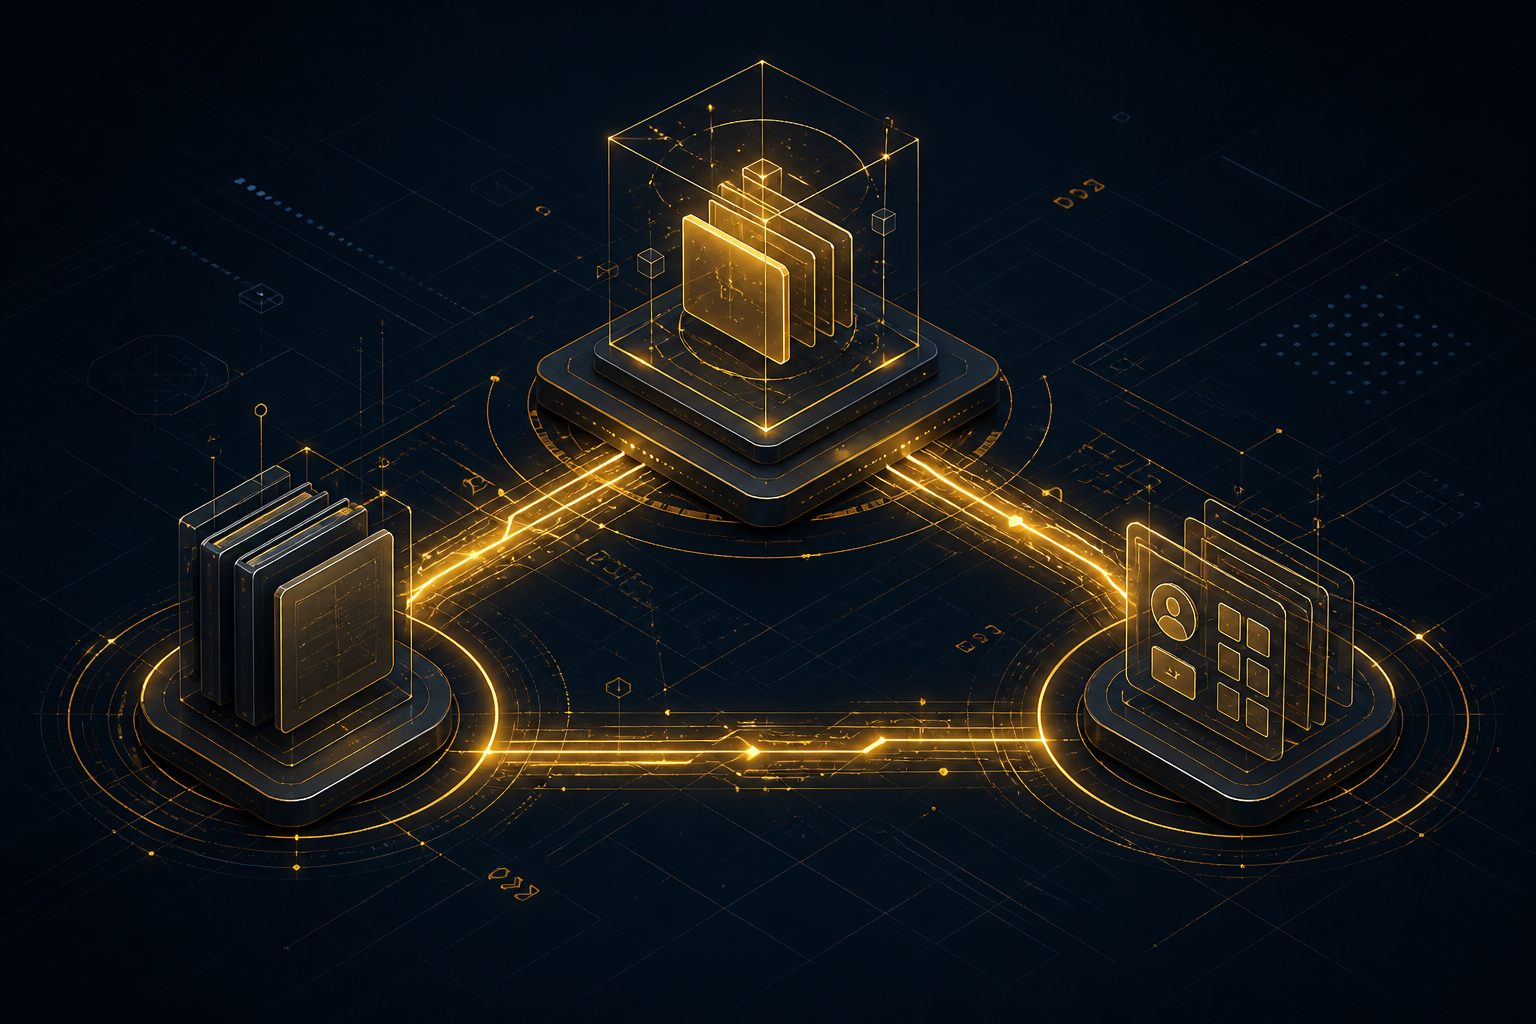
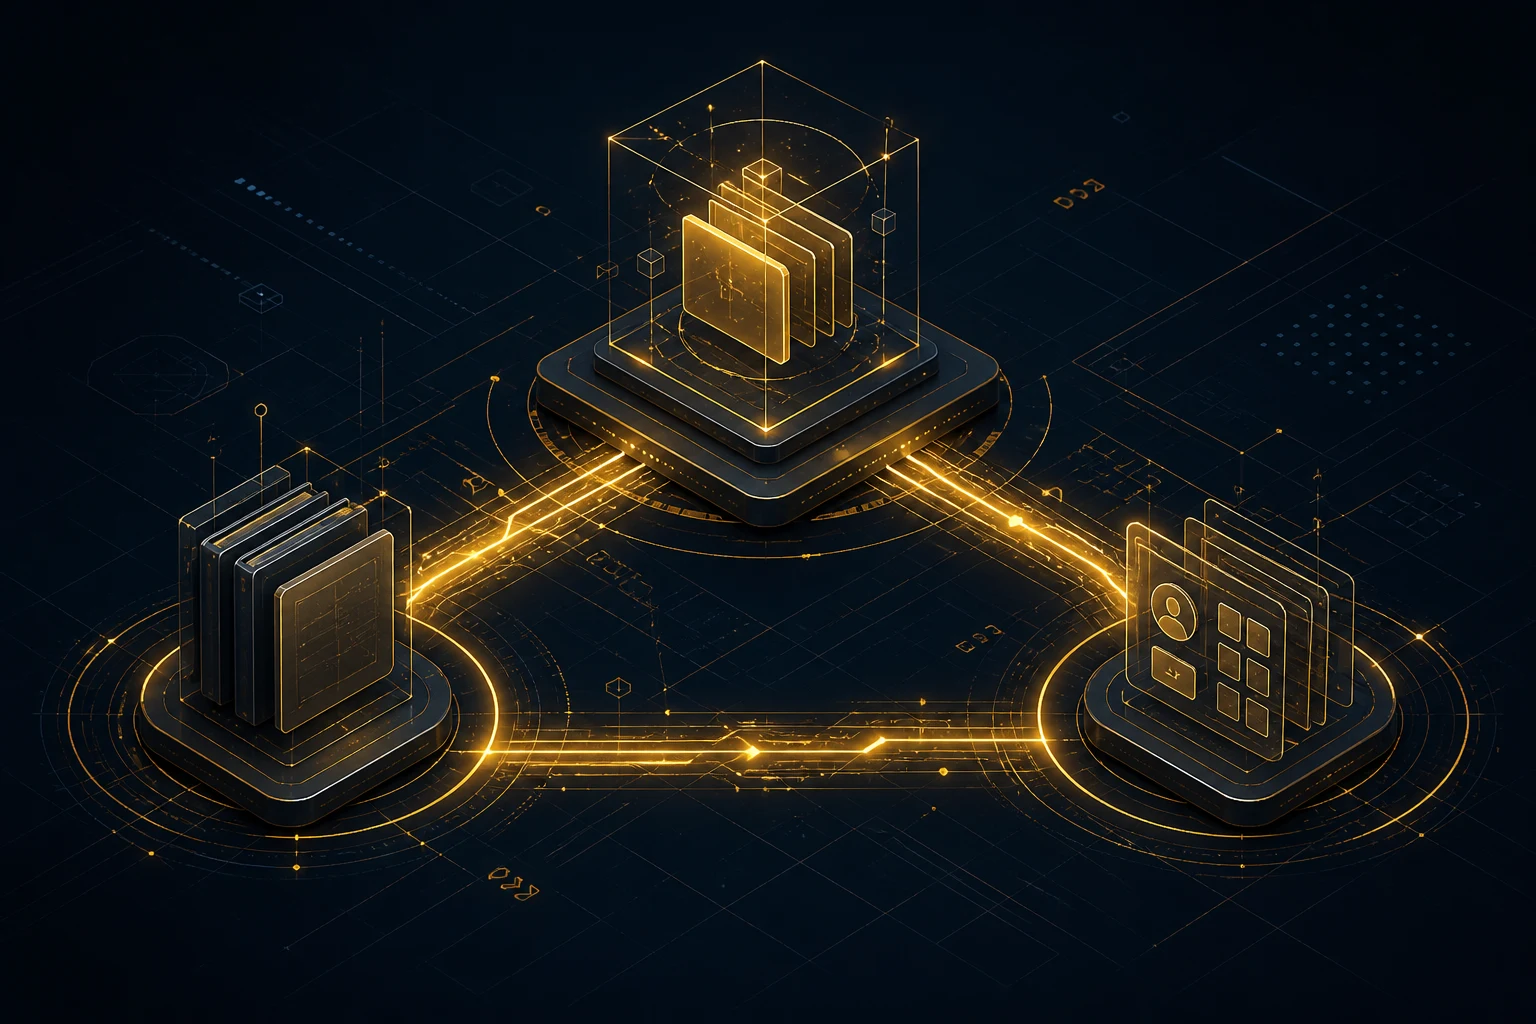
Fix saksbehandlingssystem post review issues
- Shorten seoTitle to 'Hva er et saksbehandlingssystem?' (36 chars, seoTitle + ' | Xala' = 43 chars < 60)
- Change FAQ heading to 'Ofte stilte spørsmål'
- Fix unofficial Bokmål: scannet → skannet
- Convert cover image from PNG to real WebP (2.0MB → 188KB)

diff --git a/src/content/blog/2026-08-21-hva-er-et-saksbehandlingssystem.md b/src/content/blog/2026-08-21-hva-er-et-saksbehandlingssystem.md
@@ -1,7 +1,7 @@
 ---
 slug: hva-er-et-saksbehandlingssystem
 title: "Hva er et saksbehandlingssystem, og når holder det ikke med hyllevare?"
-seoTitle: "Hva er et saksbehandlingssystem, og når holder det ikke med hyllevare?"
+seoTitle: "Hva er et saksbehandlingssystem?"
 description: "Et saksbehandlingssystem er der saken lever. Hyllevare holder når flyten er lik nok. Den holder ikke når journal, register og vedtak ikke møtes."
 date: 2026-08-21
 author: "Ibrahim Rahmani"
@@ -37,7 +37,7 @@ Da er jobben å koble, ikke å erstatte. ID-porten inn. Journal ut. Status til s
 
 Når loven hos dere ikke sitter i produktet. Når søkeren må laste opp det kommunen allerede vet. Når saksbehandleren flytter filer mellom faner. Når vedtaket skal begrunnes, men systemet bare sier ja eller nei.
 
-[Prinsipp 4](https://www.digdir.no/digital-samhandling/prinsipp-4-del-og-gjenbruk-data/1061) er at data skal gjenbrukes. Folkeregister og skatt skal inn i saken, ikke i et vedlegg søkeren scannet. Hyllevare som ikke kan hente det, tvinger fram manuell kontroll og etterslep.
+[Prinsipp 4](https://www.digdir.no/digital-samhandling/prinsipp-4-del-og-gjenbruk-data/1061) er at data skal gjenbrukes. Folkeregister og skatt skal inn i saken, ikke i et vedlegg søkeren skannet. Hyllevare som ikke kan hente det, tvinger fram manuell kontroll og etterslep.
 
 Skjønnet blir hos saksbehandleren. Det som følger av regler, kan kjøres automatisk, med kontroll og spor. Det skillet står i [Automatisering av saksbehandling](/blogg/automatisering-av-saksbehandling-hva-boer-og-ikke). Denne teksten er hva systemet er, og når boksen er for trang.
 
@@ -53,7 +53,7 @@ Vi eier ikke Altinn. Vi eier ikke 360. Vi bygger det som gjør at saken kommer i
 
 Kostnad uten oppdiktede kroner: se [Hva koster et saksbehandlingssystem?](/priser).
 
-## FAQ
+## Ofte stilte spørsmål
 
 ### Hva er et saksbehandlingssystem?
 
